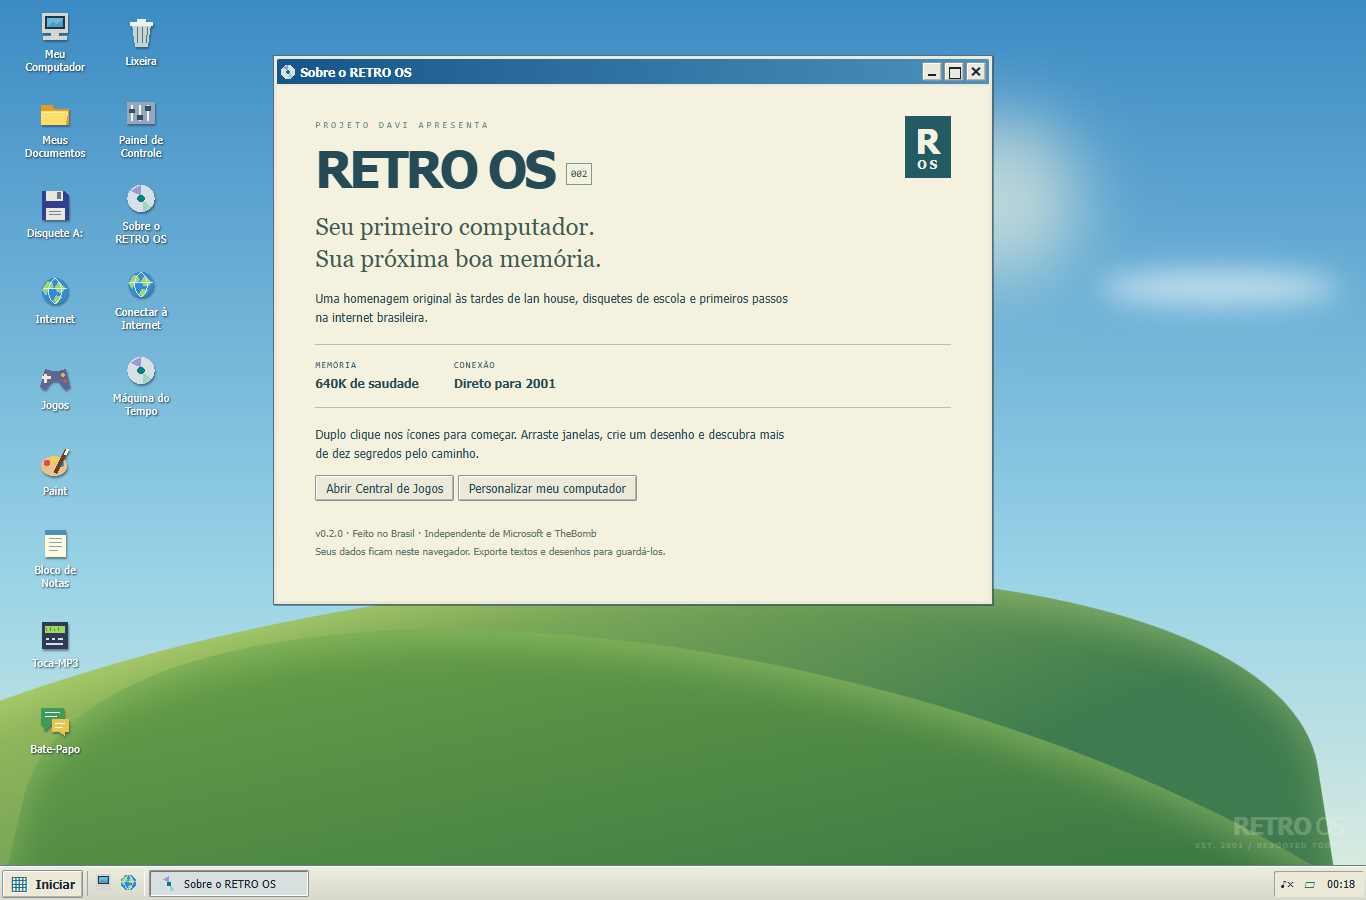
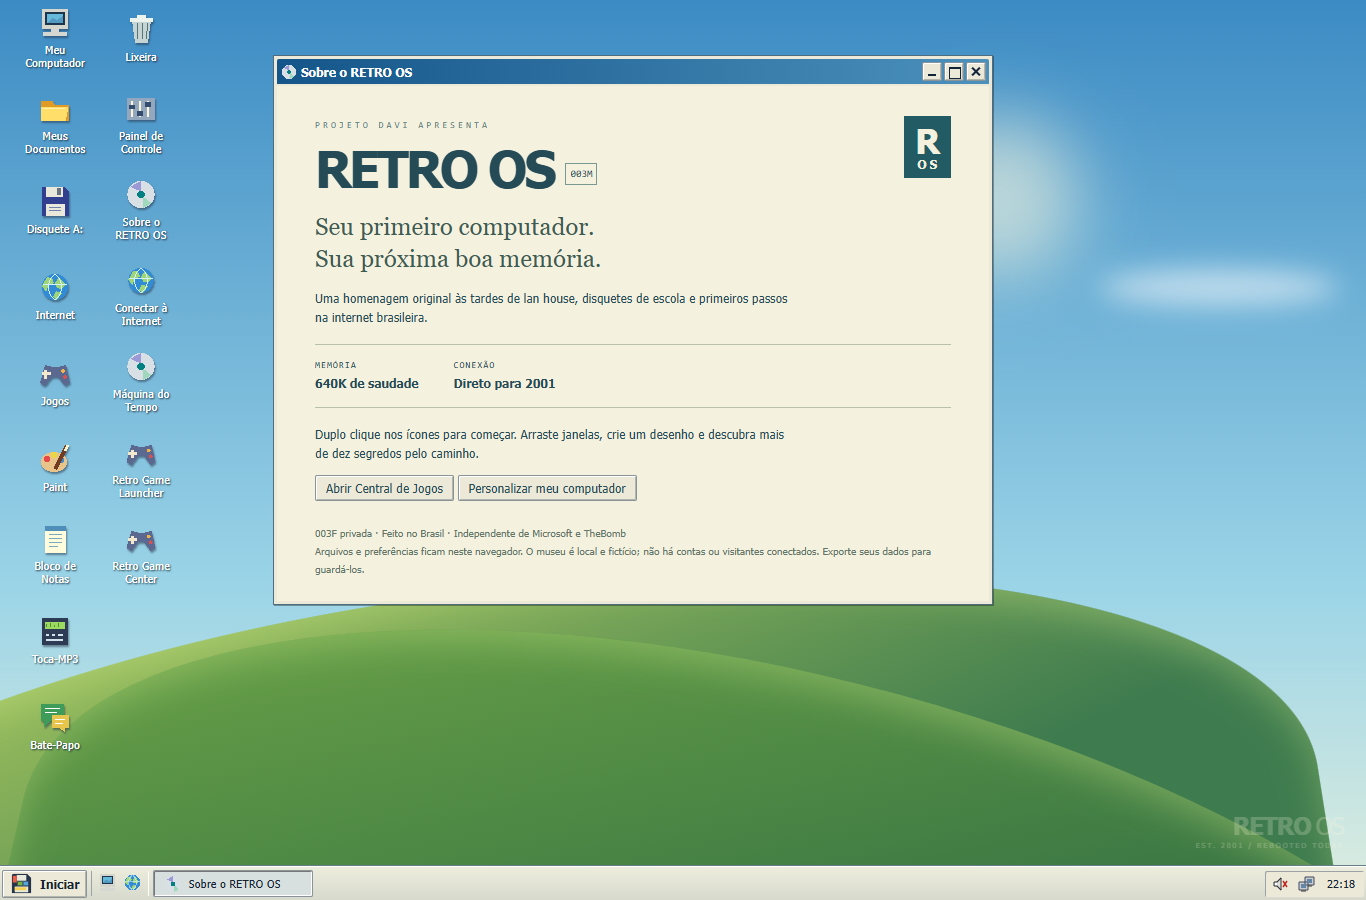
feat(003s): integrate retro game launcher across 4 entry points, virtual lnk support, and e2e validation

diff --git a/e2e/launcher-access003s.spec.ts b/e2e/launcher-access003s.spec.ts
@@ -1,0 +1,129 @@
+import {test,expect,type Page} from '@playwright/test';
+
+async function boot(p:Page){
+  await p.goto('/');
+  await p.getByRole('button',{name:'Pular inicialização'}).click();
+  await expect(p.getByRole('button',{name:'Iniciar',exact:true})).toBeVisible();
+  const closeAbout = p.getByRole('button',{name:'Fechar Sobre o RETRO OS'});
+  if (await closeAbout.isVisible()) {
+    await closeAbout.click();
+  }
+}
+
+test.describe('Retro Game Launcher - 4 Pontos de Acesso e Execução Real (003S)', ()=>{
+  test('Ponto 1: Acesso direto pelo Desktop (duplo clique)', async({page})=>{
+    await boot(page);
+    const desktopIcon = page.locator('.desktop-icons').getByRole('button',{name:'Retro Game Launcher',exact:true});
+    await expect(desktopIcon).toBeVisible();
+    await desktopIcon.dblclick();
+    await expect(page.getByRole('dialog',{name:'Retro Game Launcher'})).toBeVisible();
+    await page.screenshot({path:'evidence/launcher-desktop-open.png'});
+    await page.getByRole('button',{name:'Fechar Retro Game Launcher'}).click();
+    await expect(page.getByRole('dialog',{name:'Retro Game Launcher'})).toBeHidden();
+  });
+
+  test('Ponto 2: Acesso pelo Menu Iniciar (Programas -> Jogos / Todos os Programas)', async({page})=>{
+    await boot(page);
+    await page.getByRole('button',{name:'Iniciar',exact:true}).click();
+    const startMenu = page.locator('.start-menu');
+    await expect(startMenu).toBeVisible();
+    
+    // Clica em 'Todos os programas' no layout XP Luna
+    const allProgramsBtn = page.getByRole('button',{name:/Todos os programas/});
+    if (await allProgramsBtn.isVisible()) {
+      await allProgramsBtn.click();
+      await page.waitForTimeout(200);
+      const launcherBtn = page.locator('.luna-all-programs').getByRole('button',{name:'Retro Game Launcher'});
+      await launcherBtn.click();
+    } else {
+      // Menu clássico: Programas -> Jogos
+      const programasBtn = page.getByRole('button',{name:'Programas'});
+      await programasBtn.hover();
+      await page.waitForTimeout(200);
+      const launcherBtn = page.getByRole('button',{name:'Retro Game Launcher'});
+      await launcherBtn.click();
+    }
+    
+    await expect(page.getByRole('dialog',{name:'Retro Game Launcher'})).toBeVisible();
+    await page.screenshot({path:'evidence/launcher-startmenu-open.png'});
+    await page.getByRole('button',{name:'Fechar Retro Game Launcher'}).click();
+  });
+
+  test('Ponto 3: Acesso pelo Retro Game Center (botão Game Launcher)', async({page})=>{
+    await boot(page);
+    const gcIcon = page.locator('.desktop-icons').getByRole('button',{name:'Retro Game Center',exact:true});
+    await gcIcon.dblclick();
+    await expect(page.getByRole('dialog',{name:'Retro Game Center'})).toBeVisible();
+    
+    const launcherBtn = page.getByRole('dialog',{name:'Retro Game Center'}).getByRole('button',{name:'Game Launcher',exact:true});
+    await expect(launcherBtn).toBeVisible();
+    await launcherBtn.click();
+    
+    await expect(page.getByRole('dialog',{name:'Retro Game Launcher'})).toBeVisible();
+    await page.screenshot({path:'evidence/launcher-from-gamecenter.png'});
+    await page.getByRole('button',{name:'Fechar Retro Game Launcher'}).click();
+    await page.getByRole('button',{name:'Fechar Retro Game Center'}).click();
+  });
+
+  test('Ponto 4: Acesso pelo Meu Computador / Explorer (atalho .lnk)', async({page})=>{
+    await boot(page);
+    await page.evaluate(() => localStorage.removeItem('retro.files'));
+    await page.reload();
+    await pular(page);
+    
+    const compIcon = page.locator('.desktop-icons').getByRole('button',{name:'Meu Computador',exact:true});
+    await compIcon.dblclick();
+    await expect(page.getByRole('dialog',{name:'Meu Computador'})).toBeVisible();
+    
+    await page.getByRole('button',{name:'Disco local (C:)'}).dblclick();
+    await page.waitForTimeout(300);
+    
+    const docsFolder = page.locator('.file-grid button').filter({hasText:'Meus Documentos'});
+    if (await docsFolder.isVisible()) {
+      await docsFolder.dblclick();
+      await page.waitForTimeout(300);
+    }
+    
+    const voltarBtn = page.getByRole('button',{name:'Voltar à pasta'});
+    if (await voltarBtn.isVisible()) {
+      await voltarBtn.click();
+    }
+
+    const launcherLnk = page.locator('.file-grid button').filter({hasText:'Retro Game Launcher.lnk'});
+    await expect(launcherLnk).toBeVisible();
+    await launcherLnk.dblclick();
+    
+    await expect(page.getByRole('dialog',{name:'Retro Game Launcher'})).toBeVisible();
+    await page.screenshot({path:'evidence/launcher-from-explorer.png'});
+    await page.getByRole('button',{name:'Fechar Retro Game Launcher'}).click();
+  });
+
+  test('Pesquisa e visualização de controles inline de jogos clássicos', async({page})=>{
+    await boot(page);
+    await page.locator('.desktop-icons').getByRole('button',{name:'Retro Game Launcher',exact:true}).dblclick();
+    const launcher = page.getByRole('dialog',{name:'Retro Game Launcher'});
+    await expect(launcher).toBeVisible();
+
+    // Pesquisa Quake pelo campo de busca
+    const searchInput = launcher.locator('input[type="search"]');
+    await searchInput.fill('Quake');
+    await page.waitForTimeout(300);
+    
+    // Clica no card ou linha de Quake shareware
+    const quakeBtn = launcher.getByRole('button',{name:/Quake - shareware/i});
+    await expect(quakeBtn).toBeVisible();
+    await quakeBtn.click();
+    
+    // Verifica detalhes e controles
+    await expect(launcher.getByText('Controles & Comandos')).toBeVisible();
+    await expect(launcher.getByText('W, A, S, D / Setas')).toBeVisible();
+    await page.screenshot({path:'evidence/launcher-controls-inline.png'});
+  });
+});
+
+async function pular(p: Page) {
+  const pularBtn = p.getByRole('button',{name:'Pular inicialização'});
+  if (await pularBtn.isVisible()) await pularBtn.click();
+  const closeAbout = p.getByRole('button',{name:'Fechar Sobre o RETRO OS'});
+  if (await closeAbout.isVisible()) await closeAbout.click();
+}

diff --git a/src/apps/Explorer.tsx b/src/apps/Explorer.tsx
@@ -16,7 +16,7 @@ useEffect(()=>{setPath(initial);setFile(null);setSelected('')},[initial]);
 useEffect(()=>{if(!path.startsWith('A:')){setReading(false);return}setReading(true);const timer=setTimeout(()=>setReading(false),450);return ()=>clearTimeout(timer)},[path]);
 function drop(data:DataTransfer,parent:string,copy:boolean){const paths:unknown=JSON.parse(data.getData('application/x-retro-files'));if(!Array.isArray(paths)||paths.some(p=>typeof p!=='string'))throw Error('Arraste somente arquivos virtuais');transferMany(paths,parent,!copy)}
 function action(fn:()=>void){try{fn();setStatus('Operação concluída.');setContext(null)}catch(e){setStatus(String(e));sound('error')}}
-function openFile(f:VFile){if(f.kind==='folder'){navigate(f.path);return}if(f.path.toLowerCase().endsWith('.lnk')&&f.content.startsWith('retro-game:')){const id=f.content.slice(11);if(id.startsWith('imported-')){write('activeCustomGameId',id);window.dispatchEvent(new Event('retro:custom-game'));window.dispatchEvent(new CustomEvent('retro:open-app',{detail:'dos-imported'}))}else{write('catalogSelected',id);window.dispatchEvent(new CustomEvent('retro:open-app',{detail:'gamecenter'}));window.dispatchEvent(new Event('retro:catalog-select'))}return}window.dispatchEvent(new CustomEvent('retro:open-file',{detail:f}))}
+function openFile(f:VFile){if(f.kind==='folder'){navigate(f.path);return}if(f.path.toLowerCase().endsWith('.lnk')){if(f.content.startsWith('retro-game:')){const id=f.content.slice(11);if(id.startsWith('imported-')){write('activeCustomGameId',id);window.dispatchEvent(new Event('retro:custom-game'));window.dispatchEvent(new CustomEvent('retro:open-app',{detail:'dos-imported'}))}else{write('catalogSelected',id);window.dispatchEvent(new CustomEvent('retro:open-app',{detail:'gamecenter'}));window.dispatchEvent(new Event('retro:catalog-select'))}return}if(f.content.startsWith('retro-app:')){const id=f.content.slice(10);window.dispatchEvent(new CustomEvent('retro:open-app',{detail:id}));return}}window.dispatchEvent(new CustomEvent('retro:open-file',{detail:f}))}
 function clipboard(cut=false){if(!selected)return;write('clipboard',{path:selected,paths:selection.length?selection:[selected],cut});setStatus(cut?'Arquivo recortado. Escolha a pasta de destino.':'Arquivo copiado. Escolha a pasta de destino.');setContext(null)}
 function paste(){const clip=read<{path:string;paths?:string[];cut:boolean}|null>('clipboard',null);if(!clip)throw Error('A área de transferência está vazia.');if(!path)throw Error('Abra uma unidade ou pasta de destino.');transferMany(clip.paths||[clip.path],path,clip.cut);if(clip.cut)write('clipboard',null)}
 function menuKey(e:KeyboardEvent<HTMLElement>){const target=e.target as HTMLElement,owner=target.closest('.explorer-menu-anchor'),trigger=owner?.querySelector<HTMLButtonElement>('button'),popup=target.closest('.explorer-menu-popup');if(e.key==='Escape'){e.preventDefault();e.stopPropagation();setMenu('');trigger?.focus();return}if(popup&&['ArrowDown','ArrowUp','Home','End'].includes(e.key)){e.preventDefault();const buttons=Array.from(popup.querySelectorAll<HTMLButtonElement>('button:not(:disabled)')),at=buttons.indexOf(document.activeElement as HTMLButtonElement);buttons[e.key==='Home'?0:e.key==='End'?buttons.length-1:(at+(e.key==='ArrowDown'?1:-1)+buttons.length)%buttons.length]?.focus();return}if(e.key==='ArrowDown'&&!popup&&trigger){e.preventDefault();setMenu(trigger.textContent||'');requestAnimationFrame(()=>owner?.querySelector<HTMLButtonElement>('.explorer-menu-popup button:not(:disabled)')?.focus());return}if(['ArrowLeft','ArrowRight'].includes(e.key)){e.preventDefault();const owners=Array.from(e.currentTarget.querySelectorAll('.explorer-menu-anchor')),at=owners.indexOf(owner!);const next=owners[(at+(e.key==='ArrowRight'?1:-1)+owners.length)%owners.length];const button=next?.querySelector<HTMLButtonElement>('button');setMenu(button?.textContent||'');button?.focus()}}

diff --git a/src/storage/local.ts b/src/storage/local.ts
@@ -5,6 +5,7 @@ const stamp='2001-01-01T12:00:00Z';
 export const initialFiles:VFile[]=[
 {path:'C:/Meus Documentos',kind:'folder',content:'',modified:stamp},
 {path:'C:/Meus Documentos/LEIA-ME.txt',kind:'text',content:'Bem-vindo ao RETRO OS!\nTudo acontece neste navegador.\nSalve suas memórias no Bloco de Notas.\n\nDica: tente TYPE SEGREDO.TXT no terminal.',modified:stamp},
+{path:'C:/Meus Documentos/Retro Game Launcher.lnk',kind:'text',content:'retro-app:retrolauncher',modified:stamp},
 {path:'A:/Trabalho da escola.txt',kind:'text',content:'ESCOLA MUNICIPAL — INFORMÁTICA\nAluno: você :)\nTema: Como será o computador no futuro?\n\nAcho que um dia vai caber uma lan house inteira dentro de uma página.',modified:stamp},
 {path:'A:/SEGREDO.TXT',kind:'text',content:'EASTER EGG: O disquete sobreviveu à mochila!\nVocê desbloqueou uma memória: salvar como trabalho_FINAL_agora_vai.txt',modified:stamp},
 {path:'A:/Cartão da turma.svg',kind:'image',content:'school-postcard',modified:stamp},
